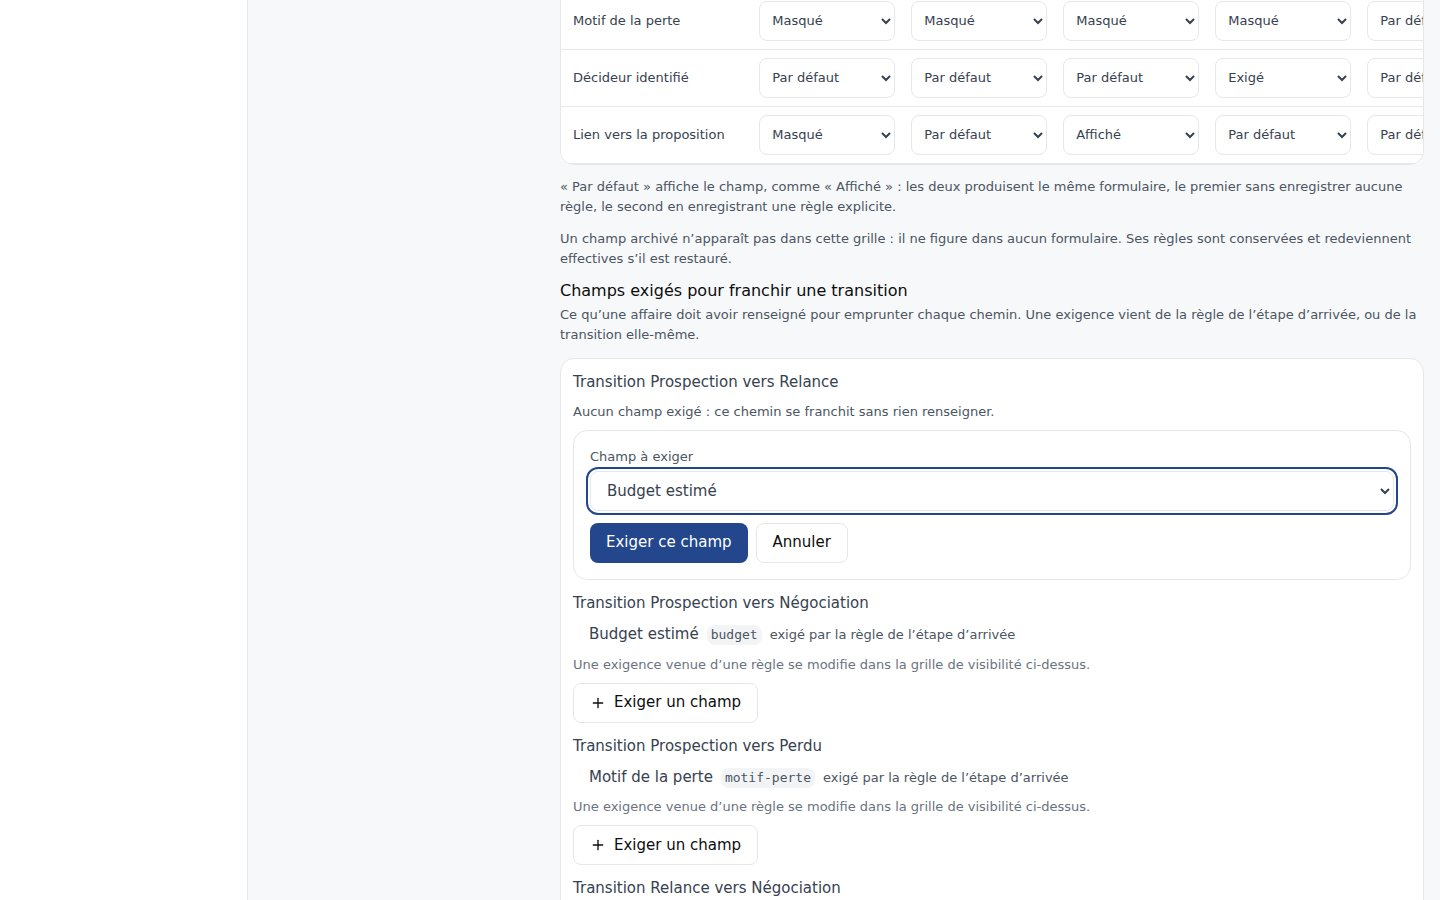
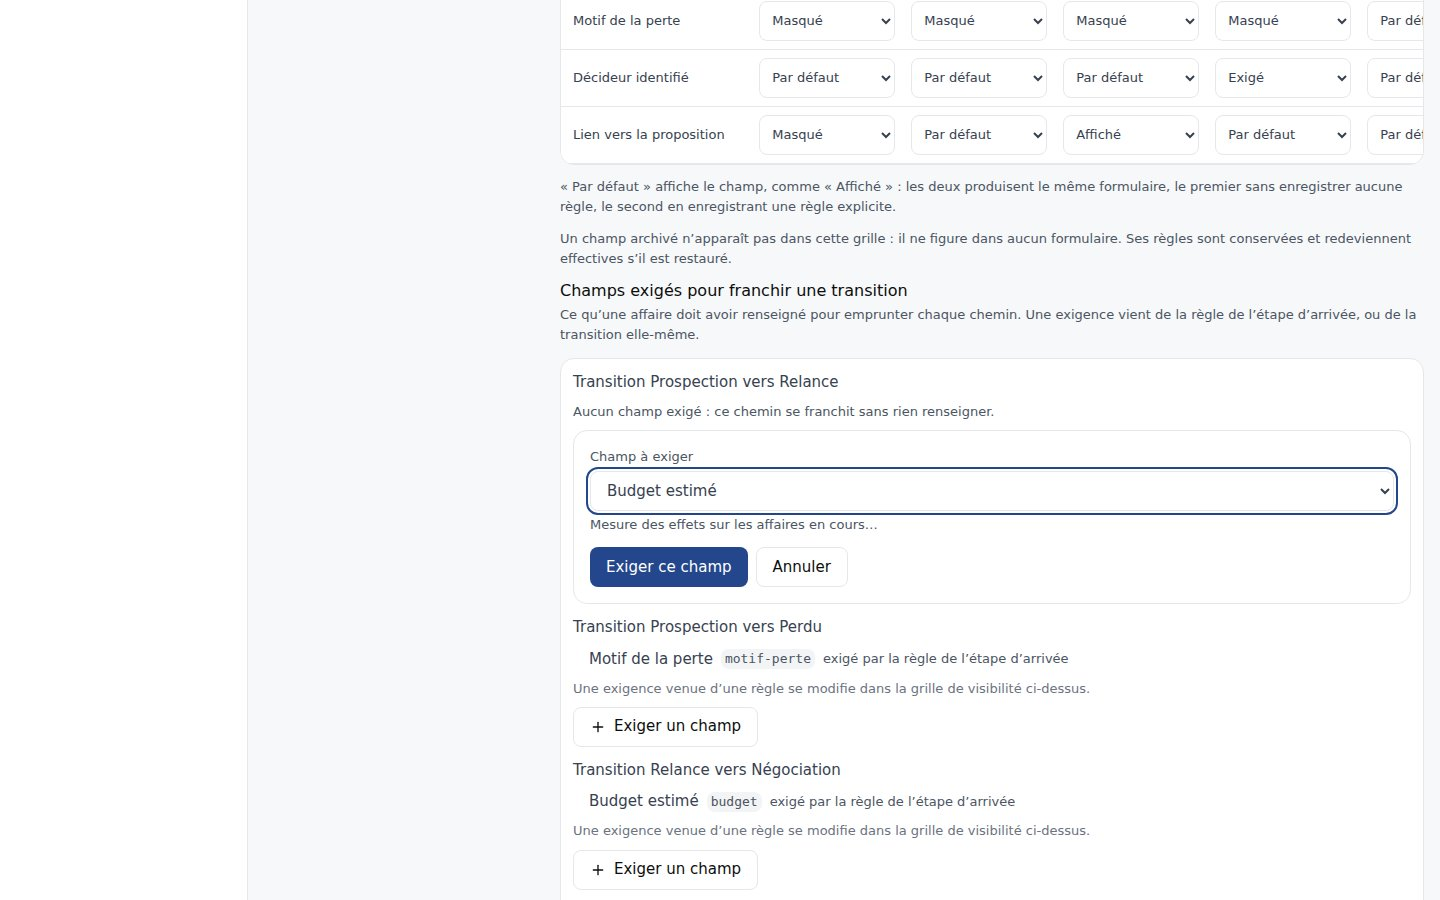
Corriger la boucle de rendu du formulaire d'exigence, et la prouver — CRM-076

Changed region(s): [[0.4062, 0.56, 0.75, 0.9956]]

diff --git a/e2e/ui/administration-workflows.spec.ts b/e2e/ui/administration-workflows.spec.ts
@@ -997,6 +997,19 @@ async function ouvrirGrille(page: Page): Promise<void> {
 	await expect(page.getByTestId('grille-visibilites')).toBeVisible()
 }
 
+/**
+ * Confirme la pose d'une exigence depuis la grille — sixième tranche, §7 bis.13.4.
+ *
+ * ELLE ATTEND D'ABORD LA MESURE : cliquer avant que la prévisualisation ne soit rendue prouverait
+ * seulement que le bouton existe, et laisserait passer une confirmation muette.
+ */
+async function confirmerExigence(page: Page): Promise<void> {
+	await expect(page.getByTestId('confirmation-exigence-case')).toBeVisible()
+	await expect(page.getByTestId('effets-case')).toBeVisible()
+	await page.getByRole('button', { name: 'Exiger ce champ' }).click()
+	await expect(page.getByTestId('confirmation-exigence-case')).toHaveCount(0)
+}
+
 /** La case d'un couple, désignée par la clé du champ et l'identifiant de l'étape. */
 function caseDe(page: Page, cleChamp: string, idEtape: string): Locator {
 	return page.locator(`[data-testid="case-visibilite"][data-champ="${cleChamp}"][data-etape="${idEtape}"]`)
@@ -1041,7 +1054,12 @@ test.describe('la grille champ × étape sur la vraie base (§7 bis.11)', () => 
 			expect(await regleEnBase(request, idChamp, ETAPE_PERDU)).toBeNull()
 
 			// --- Régler : la règle n'existe pas encore, l'`upsert` insère ---------------------------
+			// PREUVE RÉVISÉE PAR LA SIXIÈME TRANCHE, NON CONTOURNÉE (décision 390) : « Exigé » est le
+			// seul des quatre états qui puisse bloquer une affaire, et il passe désormais par une
+			// confirmation portant la prévisualisation (§7 bis.13.4). La règle prouvée — l'`upsert`
+			// insère puis modifie le même couple — est inchangée ; seul le geste gagne une étape.
 			await cellule.selectOption('required')
+			await confirmerExigence(page)
 			await expect
 				.poll(async () => regleEnBase(request, idChamp, ETAPE_PERDU))
 				.toBe('required')
@@ -1072,6 +1090,10 @@ test.describe('la grille champ × étape sur la vraie base (§7 bis.11)', () => 
 			const cellule = caseDe(page, 'e2e-wf-grille-clavier', ETAPE_PERDU)
 			await tabVers(page, cellule)
 			await cellule.selectOption('required')
+			// RÉVISÉE PAR LA SIXIÈME TRANCHE : la confirmation reçoit le focus, donc « Entrée »
+			// suffit — le parcours reste mené au clavier SEUL, ce que cette preuve existe pour dire.
+			await expect(page.getByRole('button', { name: 'Exiger ce champ' })).toBeFocused()
+			await page.keyboard.press('Enter')
 			await expect.poll(async () => regleEnBase(request, idChamp, ETAPE_PERDU)).toBe('required')
 
 			await tabVers(page, cellule)
@@ -1425,6 +1447,181 @@ test.describe('les exigences de transition sur la vraie base (§7 bis.12)', () =
 		const lignes = (await reponse.json()) as readonly unknown[]
 		expect(lignes).toHaveLength(2)
 	})
+})
+
+// ---------------------------------------------------------------------------------------------
+// §7 bis.13 — La prévisualisation des effets, sur la vraie base
+// ---------------------------------------------------------------------------------------------
+//
+// LES NOMBRES ATTENDUS SONT MESURÉS, PAS DEVINÉS. Un champ créé par la preuve n'a de valeur sur
+// AUCUNE affaire : toute affaire lui est donc « vide », et les comptes sont ceux des affaires du
+// seed. MESURÉ sur la pile le 2026-08-15 pour l'étape `Perdu` : **1** affaire sur place et **9** à
+// l'entrée ; pour l'arête `Prospection → Relance` : **4**.
+//
+// CES NOMBRES SONT LIÉS AU SEED, et c'est voulu : ils tomberaient si le seed changeait, et c'est
+// précisément ce qu'une preuve de prévisualisation doit détecter. Une assertion qui se serait
+// contentée de « un nombre est affiché » aurait été verte sur un compte faux.
+
+test.describe('la prévisualisation des effets sur la vraie base (§7 bis.13)', () => {
+	test('régler une case sur « Exigé » N’ÉCRIT RIEN, et annonce les deux effets mesurés', async ({
+		page,
+		request,
+	}) => {
+		await purgerChamps(request)
+		const idChamp = await creerChampDePreuve(request, 'e2e-wf-previs', 'E2E Prévisualisation')
+		try {
+			await connecter(page)
+			await ouvrirEditeur(page)
+			await ouvrirGrille(page)
+
+			const cellule = caseDe(page, 'e2e-wf-previs', ETAPE_PERDU)
+			await cellule.selectOption('required')
+
+			// La confirmation porte les DEUX nombres — un seul aurait annoncé « aucun effet » sur les
+			// étapes où l'autre effet existe (§7 bis.13.1).
+			const effets = page.getByTestId('effets-case')
+			await expect(effets).toContainText('1 affaire est déjà à cette étape')
+			await expect(effets).toContainText('9 affaires ne pourront plus entrer')
+
+			// RIEN N'EST ÉCRIT tant que la confirmation n'est pas acceptée : c'est la propriété que
+			// l'écran seul ne prouverait pas, et la base la tranche.
+			expect(await regleEnBase(request, idChamp, ETAPE_PERDU)).toBeNull()
+			// La case montre le choix en cours, pas l'état enregistré.
+			await expect(cellule).toHaveValue('required')
+		} finally {
+			await purgerChamps(request)
+		}
+	})
+
+	test('renoncer rend la case à sa valeur enregistrée, et la base reste intacte', async ({
+		page,
+		request,
+	}) => {
+		await purgerChamps(request)
+		const idChamp = await creerChampDePreuve(request, 'e2e-wf-renonce', 'E2E Renoncement')
+		try {
+			await connecter(page)
+			await ouvrirEditeur(page)
+			await ouvrirGrille(page)
+
+			const cellule = caseDe(page, 'e2e-wf-renonce', ETAPE_PERDU)
+			await cellule.selectOption('required')
+			await expect(page.getByTestId('confirmation-exigence-case')).toBeVisible()
+			await page.getByRole('button', { name: 'Annuler' }).click()
+
+			await expect(page.getByTestId('confirmation-exigence-case')).toHaveCount(0)
+			await expect(cellule).toHaveValue('defaut')
+			// L'ABSENCE DE LIGNE est la seule preuve du renoncement : l'affichage, lui, pourrait mentir.
+			expect(await regleEnBase(request, idChamp, ETAPE_PERDU)).toBeNull()
+		} finally {
+			await purgerChamps(request)
+		}
+	})
+
+	test('le formulaire d’exigence d’une transition annonce son compte, mesuré sur le chemin', async ({
+		page,
+		request,
+	}) => {
+		await purgerChamps(request)
+		await creerChampDePreuve(request, 'e2e-wf-previs-arete', 'E2E Prévisualisation Arête')
+		try {
+			await connecter(page)
+			await ouvrirEditeur(page)
+			await ouvrirExigences(page)
+
+			await blocExigences(page, TRANSITION_RELANCER)
+				.getByRole('button', { name: 'Exiger un champ' })
+				.click()
+			const formulaire = page.getByTestId('formulaire-exigence')
+			await expect(formulaire).toBeVisible()
+			await formulaire.getByLabel('Champ à exiger').selectOption({ label: 'E2E Prévisualisation Arête' })
+
+			// La phrase d'une TRANSITION parle du chemin, pas de l'étape : une exigence d'arête ne
+			// bloque que ce chemin-là (§7 bis.13.4).
+			const effets = page.getByTestId('effets-exigence')
+			await expect(effets).toContainText('4 affaires ne pourront plus emprunter ce chemin')
+		} finally {
+			await purgerChamps(request)
+		}
+	})
+
+	test('une exigence sans effet le DIT en toutes lettres, jamais par un silence', async ({
+		page,
+		request,
+	}) => {
+		// `Prospection` est l'étape initiale : AUCUNE arête n'y mène, donc rien à l'entrée. Et le
+		// champ de preuve est posé sur une étape que le seed laisse vide d'affaires — `Signature`
+		// n'en porte aucune —, donc rien sur place non plus. MESURÉ le 2026-08-15.
+		await purgerChamps(request)
+		await creerChampDePreuve(request, 'e2e-wf-sans-effet', 'E2E Sans Effet')
+		try {
+			await connecter(page)
+			await ouvrirEditeur(page)
+			await ouvrirGrille(page)
+
+			const cellule = caseDe(page, 'e2e-wf-sans-effet', ETAPE_INITIALE_SEED)
+			await cellule.selectOption('required')
+			const effets = page.getByTestId('effets-case')
+			// `Prospection` porte quatre affaires : elles sont « sur place », et rien à l'entrée.
+			await expect(effets).toContainText('4 affaires sont déjà à cette étape')
+			await expect(effets).not.toContainText('ne pourront plus entrer')
+		} finally {
+			await purgerChamps(request)
+		}
+	})
+
+	test('confirmer écrit la règle, et le seed retrouve ses quinze règles après purge', async ({
+		page,
+		request,
+	}) => {
+		await purgerChamps(request)
+		const idChamp = await creerChampDePreuve(request, 'e2e-wf-confirme', 'E2E Confirmation')
+		try {
+			await connecter(page)
+			await ouvrirEditeur(page)
+			await ouvrirGrille(page)
+
+			const cellule = caseDe(page, 'e2e-wf-confirme', ETAPE_PERDU)
+			await cellule.selectOption('required')
+			await confirmerExigence(page)
+			await expect.poll(async () => regleEnBase(request, idChamp, ETAPE_PERDU)).toBe('required')
+		} finally {
+			await purgerChamps(request)
+		}
+		// La cascade emporte la règle avec le champ : le seed doit retrouver ses quinze.
+		const reponse = await request.get(
+			`${CHEMIN_REGLES}?select=field_id&workflow_id=eq.${WORKFLOW_DEFAUT}`,
+			{ headers: enTetesService() },
+		)
+		expect((await reponse.json()) as readonly unknown[]).toHaveLength(15)
+	})
+})
+
+test.describe('captures de la prévisualisation (CLAUDE.md §16)', () => {
+	for (const palier of PALIERS) {
+		test(`${palier.nom} : la confirmation d’une exigence reste lisible, sans débordement`, async ({
+			page,
+			request,
+		}) => {
+			await purgerChamps(request)
+			await creerChampDePreuve(request, 'e2e-wf-capture-previs', 'E2E Capture Prévisualisation')
+			try {
+				await page.setViewportSize({ width: palier.largeur, height: palier.hauteur })
+				await connecter(page)
+				await ouvrirEditeur(page)
+				await ouvrirGrille(page)
+				await caseDe(page, 'e2e-wf-capture-previs', ETAPE_PERDU).selectOption('required')
+				await expect(page.getByTestId('effets-case')).toBeVisible()
+				const debordement = await page.evaluate(
+					() => document.documentElement.scrollWidth > document.documentElement.clientWidth,
+				)
+				expect(debordement, 'la page ne défile jamais horizontalement').toBe(false)
+				await capturer(page, `workflows-previsualisation-${palier.nom}`, UNITE)
+			} finally {
+				await purgerChamps(request)
+			}
+		})
+	}
 })
 
 test.describe('captures des exigences de transition (CLAUDE.md §16)', () => {

diff --git a/webapp/src/app/AdministrationWorkflows.test.tsx b/webapp/src/app/AdministrationWorkflows.test.tsx
@@ -1631,6 +1631,24 @@ describe('la prévisualisation des effets (§7 bis.13)', () => {
 		await waitFor(() => expect(ecritures).toHaveLength(1))
 	})
 
+	it('NE MESURE QU’UNE FOIS par champ choisi : le formulaire ouvert ne boucle pas', async () => {
+		// DÉFAUT MESURÉ ET CORRIGÉ LE 2026-08-15 (décision 390). L'effet du formulaire dépendait de la
+		// callback du parent, construite dans une boucle sur les arêtes et donc recréée à chaque
+		// rendu : il se rejouait à chaque rendu, chaque mesure provoquait un rendu de plus, et les
+		// appels RPC partaient sans fin. Cette preuve ÉCHOUE avant le correctif — le compte croît
+		// indéfiniment — et fixe la propriété : une mesure par champ choisi, pas une par rendu.
+		const { previsualisations } = monter()
+		await attendreEcran()
+		const boutons = await screen.findAllByRole('button', { name: 'Exiger un champ' })
+		await userEvent.click(boutons[0] as HTMLElement)
+		await screen.findByTestId('effets-exigence')
+		const apresOuverture = previsualisations.length
+		expect(apresOuverture).toBe(1)
+		// Laisse largement le temps à une boucle de se manifester.
+		await new Promise((resoudre) => setTimeout(resoudre, 150))
+		expect(previsualisations).toHaveLength(apresOuverture)
+	})
+
 	it('mesure aussi le champ proposé d’office dans le formulaire d’exigence d’une transition', async () => {
 		// Sans cela, le champ que validera un administrateur pressé serait le seul dont l'effet
 		// resterait inconnu.

diff --git a/webapp/src/app/AdministrationWorkflows.tsx b/webapp/src/app/AdministrationWorkflows.tsx
@@ -1825,9 +1825,18 @@ function FormulaireExigence({
 	// LA PRÉVISUALISATION SUIT LE CHAMP CHOISI, y compris celui que le formulaire propose d'office :
 	// sans cet effet, le premier champ de la liste serait le seul dont l'effet resterait inconnu,
 	// alors que c'est celui qu'un administrateur pressé validera (§7 bis.13.4).
+	//
+	// LA CALLBACK PASSE PAR UN `ref`, ET CE N'EST PAS UN ORNEMENT. Le parent la construit dans une
+	// boucle sur les arêtes : elle ne peut pas être mémoïsée, et son identité change à chaque
+	// rendu. La mettre dans les dépendances rendait l'effet à chaque rendu, donc une mesure à
+	// chaque rendu, donc un rendu de plus — une boucle infinie d'appels RPC, mesurée le 2026-08-15.
+	// L'effet ne dépend donc QUE du champ retenu, qui est la seule cause légitime d'une nouvelle
+	// mesure.
+	const choisirRef = useRef(onChoisir)
+	choisirRef.current = onChoisir
 	useEffect(() => {
-		if (retenu !== '') onChoisir(retenu)
-	}, [retenu, onChoisir])
+		if (retenu !== '') choisirRef.current(retenu)
+	}, [retenu])
 
 	return (
 		<form
